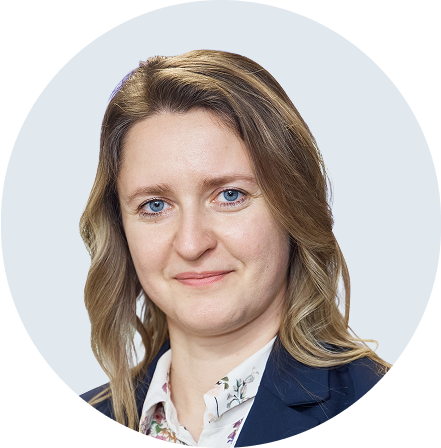
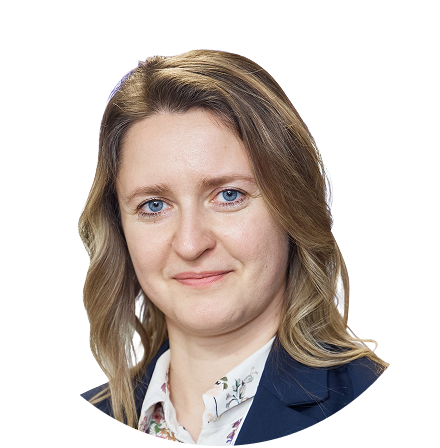
completed

diff --git a/index.html b/index.html
@@ -15,7 +15,7 @@
     
     <li class="cards__items">
       <figure class="cards__item">
-        <img class="item__img" src="image/img1-1.png" alt="Rodion Zhitomirsky" title="Rodion Zhitomirsky">
+        <img class="item__img" src="image/img1.png" alt="Rodion Zhitomirsky" title="Rodion Zhitomirsky">
         <figcaption class="img__dsc">
           <strong>Rodion Zhitomirsky</strong>
           <br>Chairman of the Board,
@@ -36,7 +36,7 @@
             fill="white"/>
         </svg>
       </svg>
-      <img class="cards__item-hover" src="image/img1-2.jpg" alt="">
+      <img class="cards__item-hover" src="image/img11.jpg" alt="">
       <svg class="cards__logo-hover" width="50" height="50" viewBox="0 0 50 50" fill="none" xmlns="http://www.w3.org/2000/svg">
         <circle cx="25" cy="25" r="25" fill="#FF5E00"/>
         <path d="M26.6462 34.3537C26.5997 34.3073 26.5629 34.2521 26.5377 34.1914C26.5125 34.1307 26.4996 34.0657 26.4996 34C26.4996 33.9343 26.5125 33.8692 26.5377 33.8085C26.5629 33.7478 26.5997 33.6927 26.6462 33.6462L34.7925 25.5L14 25.5C13.8674 25.5 13.7402 25.4473 13.6464 25.3535C13.5527 25.2598 13.5 25.1326 13.5 25C13.5 24.8674 13.5527 24.7402 13.6464 24.6464C13.7402 24.5527 13.8674 24.5 14 24.5L34.7925 24.5L26.6462 16.3537C26.5998 16.3073 26.5629 16.2521 26.5378 16.1914C26.5126 16.1307 26.4997 16.0657 26.4997 16C26.4997 15.9343 26.5126 15.8692 26.5378 15.8085C26.5629 15.7478 26.5998 15.6927 26.6462 15.6462C26.6927 15.5998 26.7478 15.5629 26.8085 15.5378C26.8692 15.5126 26.9343 15.4997 27 15.4997C27.0657 15.4997 27.1307 15.5126 27.1914 15.5378C27.2521 15.5629 27.3073 15.5998 27.3537 15.6462L36.3537 24.6462C36.4002 24.6927 36.4371 24.7478 36.4623 24.8085C36.4874 24.8692 36.5004 24.9343 36.5004 25C36.5004 25.0657 36.4874 25.1307 36.4623 25.1914C36.4371 25.2521 36.4002 25.3073 36.3537 25.3537L27.3537 34.3537C27.3073 34.4002 27.2521 34.4371 27.1914 34.4623C27.1307 34.4874 27.0657 34.5004 27 34.5004C26.9343 34.5004 26.8692 34.4874 26.8085 34.4623C26.7478 34.4371 26.6927 34.4002 26.6462 34.3537Z" fill="white"/>
@@ -65,6 +65,11 @@
             fill="white"/>
         </svg>
       </svg>
+      <img class="cards__item-hover" src="image/img21.jpg" alt="">
+      <svg class="cards__logo-hover" width="50" height="50" viewBox="0 0 50 50" fill="none" xmlns="http://www.w3.org/2000/svg">
+        <circle cx="25" cy="25" r="25" fill="#FF5E00"/>
+        <path d="M26.6462 34.3537C26.5997 34.3073 26.5629 34.2521 26.5377 34.1914C26.5125 34.1307 26.4996 34.0657 26.4996 34C26.4996 33.9343 26.5125 33.8692 26.5377 33.8085C26.5629 33.7478 26.5997 33.6927 26.6462 33.6462L34.7925 25.5L14 25.5C13.8674 25.5 13.7402 25.4473 13.6464 25.3535C13.5527 25.2598 13.5 25.1326 13.5 25C13.5 24.8674 13.5527 24.7402 13.6464 24.6464C13.7402 24.5527 13.8674 24.5 14 24.5L34.7925 24.5L26.6462 16.3537C26.5998 16.3073 26.5629 16.2521 26.5378 16.1914C26.5126 16.1307 26.4997 16.0657 26.4997 16C26.4997 15.9343 26.5126 15.8692 26.5378 15.8085C26.5629 15.7478 26.5998 15.6927 26.6462 15.6462C26.6927 15.5998 26.7478 15.5629 26.8085 15.5378C26.8692 15.5126 26.9343 15.4997 27 15.4997C27.0657 15.4997 27.1307 15.5126 27.1914 15.5378C27.2521 15.5629 27.3073 15.5998 27.3537 15.6462L36.3537 24.6462C36.4002 24.6927 36.4371 24.7478 36.4623 24.8085C36.4874 24.8692 36.5004 24.9343 36.5004 25C36.5004 25.0657 36.4874 25.1307 36.4623 25.1914C36.4371 25.2521 36.4002 25.3073 36.3537 25.3537L27.3537 34.3537C27.3073 34.4002 27.2521 34.4371 27.1914 34.4623C27.1307 34.4874 27.0657 34.5004 27 34.5004C26.9343 34.5004 26.8692 34.4874 26.8085 34.4623C26.7478 34.4371 26.6927 34.4002 26.6462 34.3537Z" fill="white"/>
+      </svg>
     </li>
     
     <li class="cards__items">
@@ -88,6 +93,11 @@
             d="M2.93083 0.827214C4.5341 1.13177 4.83503 3.36457 3.36999 4.08579C2.27194 4.62634 0.925557 4.13483 0.604154 3.07608C0.183102 1.68907 1.37967 0.53253 2.93083 0.827214Z"
             fill="white"/>
         </svg>
+      </svg>
+      <img class="cards__item-hover" src="image/img31.jpg" alt="">
+      <svg class="cards__logo-hover" width="50" height="50" viewBox="0 0 50 50" fill="none" xmlns="http://www.w3.org/2000/svg">
+        <circle cx="25" cy="25" r="25" fill="#FF5E00"/>
+        <path d="M26.6462 34.3537C26.5997 34.3073 26.5629 34.2521 26.5377 34.1914C26.5125 34.1307 26.4996 34.0657 26.4996 34C26.4996 33.9343 26.5125 33.8692 26.5377 33.8085C26.5629 33.7478 26.5997 33.6927 26.6462 33.6462L34.7925 25.5L14 25.5C13.8674 25.5 13.7402 25.4473 13.6464 25.3535C13.5527 25.2598 13.5 25.1326 13.5 25C13.5 24.8674 13.5527 24.7402 13.6464 24.6464C13.7402 24.5527 13.8674 24.5 14 24.5L34.7925 24.5L26.6462 16.3537C26.5998 16.3073 26.5629 16.2521 26.5378 16.1914C26.5126 16.1307 26.4997 16.0657 26.4997 16C26.4997 15.9343 26.5126 15.8692 26.5378 15.8085C26.5629 15.7478 26.5998 15.6927 26.6462 15.6462C26.6927 15.5998 26.7478 15.5629 26.8085 15.5378C26.8692 15.5126 26.9343 15.4997 27 15.4997C27.0657 15.4997 27.1307 15.5126 27.1914 15.5378C27.2521 15.5629 27.3073 15.5998 27.3537 15.6462L36.3537 24.6462C36.4002 24.6927 36.4371 24.7478 36.4623 24.8085C36.4874 24.8692 36.5004 24.9343 36.5004 25C36.5004 25.0657 36.4874 25.1307 36.4623 25.1914C36.4371 25.2521 36.4002 25.3073 36.3537 25.3537L27.3537 34.3537C27.3073 34.4002 27.2521 34.4371 27.1914 34.4623C27.1307 34.4874 27.0657 34.5004 27 34.5004C26.9343 34.5004 26.8692 34.4874 26.8085 34.4623C26.7478 34.4371 26.6927 34.4002 26.6462 34.3537Z" fill="white"/>
       </svg>
     </li>
     
@@ -114,6 +124,11 @@
             fill="white"/>
         </svg>
       </svg>
+      <img class="cards__item-hover" src="image/img41.jpg" alt="">
+      <svg class="cards__logo-hover" width="50" height="50" viewBox="0 0 50 50" fill="none" xmlns="http://www.w3.org/2000/svg">
+        <circle cx="25" cy="25" r="25" fill="#FF5E00"/>
+        <path d="M26.6462 34.3537C26.5997 34.3073 26.5629 34.2521 26.5377 34.1914C26.5125 34.1307 26.4996 34.0657 26.4996 34C26.4996 33.9343 26.5125 33.8692 26.5377 33.8085C26.5629 33.7478 26.5997 33.6927 26.6462 33.6462L34.7925 25.5L14 25.5C13.8674 25.5 13.7402 25.4473 13.6464 25.3535C13.5527 25.2598 13.5 25.1326 13.5 25C13.5 24.8674 13.5527 24.7402 13.6464 24.6464C13.7402 24.5527 13.8674 24.5 14 24.5L34.7925 24.5L26.6462 16.3537C26.5998 16.3073 26.5629 16.2521 26.5378 16.1914C26.5126 16.1307 26.4997 16.0657 26.4997 16C26.4997 15.9343 26.5126 15.8692 26.5378 15.8085C26.5629 15.7478 26.5998 15.6927 26.6462 15.6462C26.6927 15.5998 26.7478 15.5629 26.8085 15.5378C26.8692 15.5126 26.9343 15.4997 27 15.4997C27.0657 15.4997 27.1307 15.5126 27.1914 15.5378C27.2521 15.5629 27.3073 15.5998 27.3537 15.6462L36.3537 24.6462C36.4002 24.6927 36.4371 24.7478 36.4623 24.8085C36.4874 24.8692 36.5004 24.9343 36.5004 25C36.5004 25.0657 36.4874 25.1307 36.4623 25.1914C36.4371 25.2521 36.4002 25.3073 36.3537 25.3537L27.3537 34.3537C27.3073 34.4002 27.2521 34.4371 27.1914 34.4623C27.1307 34.4874 27.0657 34.5004 27 34.5004C26.9343 34.5004 26.8692 34.4874 26.8085 34.4623C26.7478 34.4371 26.6927 34.4002 26.6462 34.3537Z" fill="white"/>
+      </svg>
     </li>
     
     <li class="cards__items">
@@ -137,6 +152,11 @@
             d="M2.93083 0.827214C4.5341 1.13177 4.83503 3.36457 3.36999 4.08579C2.27194 4.62634 0.925557 4.13483 0.604154 3.07608C0.183102 1.68907 1.37967 0.53253 2.93083 0.827214Z"
             fill="white"/>
         </svg>
+      </svg>
+      <img class="cards__item-hover" src="image/img51.jpg" alt="">
+      <svg class="cards__logo-hover" width="50" height="50" viewBox="0 0 50 50" fill="none" xmlns="http://www.w3.org/2000/svg">
+        <circle cx="25" cy="25" r="25" fill="#FF5E00"/>
+        <path d="M26.6462 34.3537C26.5997 34.3073 26.5629 34.2521 26.5377 34.1914C26.5125 34.1307 26.4996 34.0657 26.4996 34C26.4996 33.9343 26.5125 33.8692 26.5377 33.8085C26.5629 33.7478 26.5997 33.6927 26.6462 33.6462L34.7925 25.5L14 25.5C13.8674 25.5 13.7402 25.4473 13.6464 25.3535C13.5527 25.2598 13.5 25.1326 13.5 25C13.5 24.8674 13.5527 24.7402 13.6464 24.6464C13.7402 24.5527 13.8674 24.5 14 24.5L34.7925 24.5L26.6462 16.3537C26.5998 16.3073 26.5629 16.2521 26.5378 16.1914C26.5126 16.1307 26.4997 16.0657 26.4997 16C26.4997 15.9343 26.5126 15.8692 26.5378 15.8085C26.5629 15.7478 26.5998 15.6927 26.6462 15.6462C26.6927 15.5998 26.7478 15.5629 26.8085 15.5378C26.8692 15.5126 26.9343 15.4997 27 15.4997C27.0657 15.4997 27.1307 15.5126 27.1914 15.5378C27.2521 15.5629 27.3073 15.5998 27.3537 15.6462L36.3537 24.6462C36.4002 24.6927 36.4371 24.7478 36.4623 24.8085C36.4874 24.8692 36.5004 24.9343 36.5004 25C36.5004 25.0657 36.4874 25.1307 36.4623 25.1914C36.4371 25.2521 36.4002 25.3073 36.3537 25.3537L27.3537 34.3537C27.3073 34.4002 27.2521 34.4371 27.1914 34.4623C27.1307 34.4874 27.0657 34.5004 27 34.5004C26.9343 34.5004 26.8692 34.4874 26.8085 34.4623C26.7478 34.4371 26.6927 34.4002 26.6462 34.3537Z" fill="white"/>
       </svg>
     </li>
   

diff --git a/css/style.css b/css/style.css
@@ -96,13 +96,13 @@ body {
   flex: 0 1 235px;
   z-index: 10;
 
-  &:nth-child(2) {
-    margin: 0;
-  }
+  /*&:nth-child(2) {*/
+  /*  margin: 0;*/
+  /*}*/
 
-  &:nth-child(3) {
-    margin-right: 0;
-  }
+  /*&:nth-child(3) {*/
+  /*  margin-right: 0;*/
+  /*}*/
 }
 
 .item__img {
@@ -142,6 +142,7 @@ body {
   position: absolute;
   width: 293px;
   height: 361px;
+  background-image: linear-gradient(#00277B, #0553B1);
   left: -36px;
   top: -13px;
   z-index: 9;
